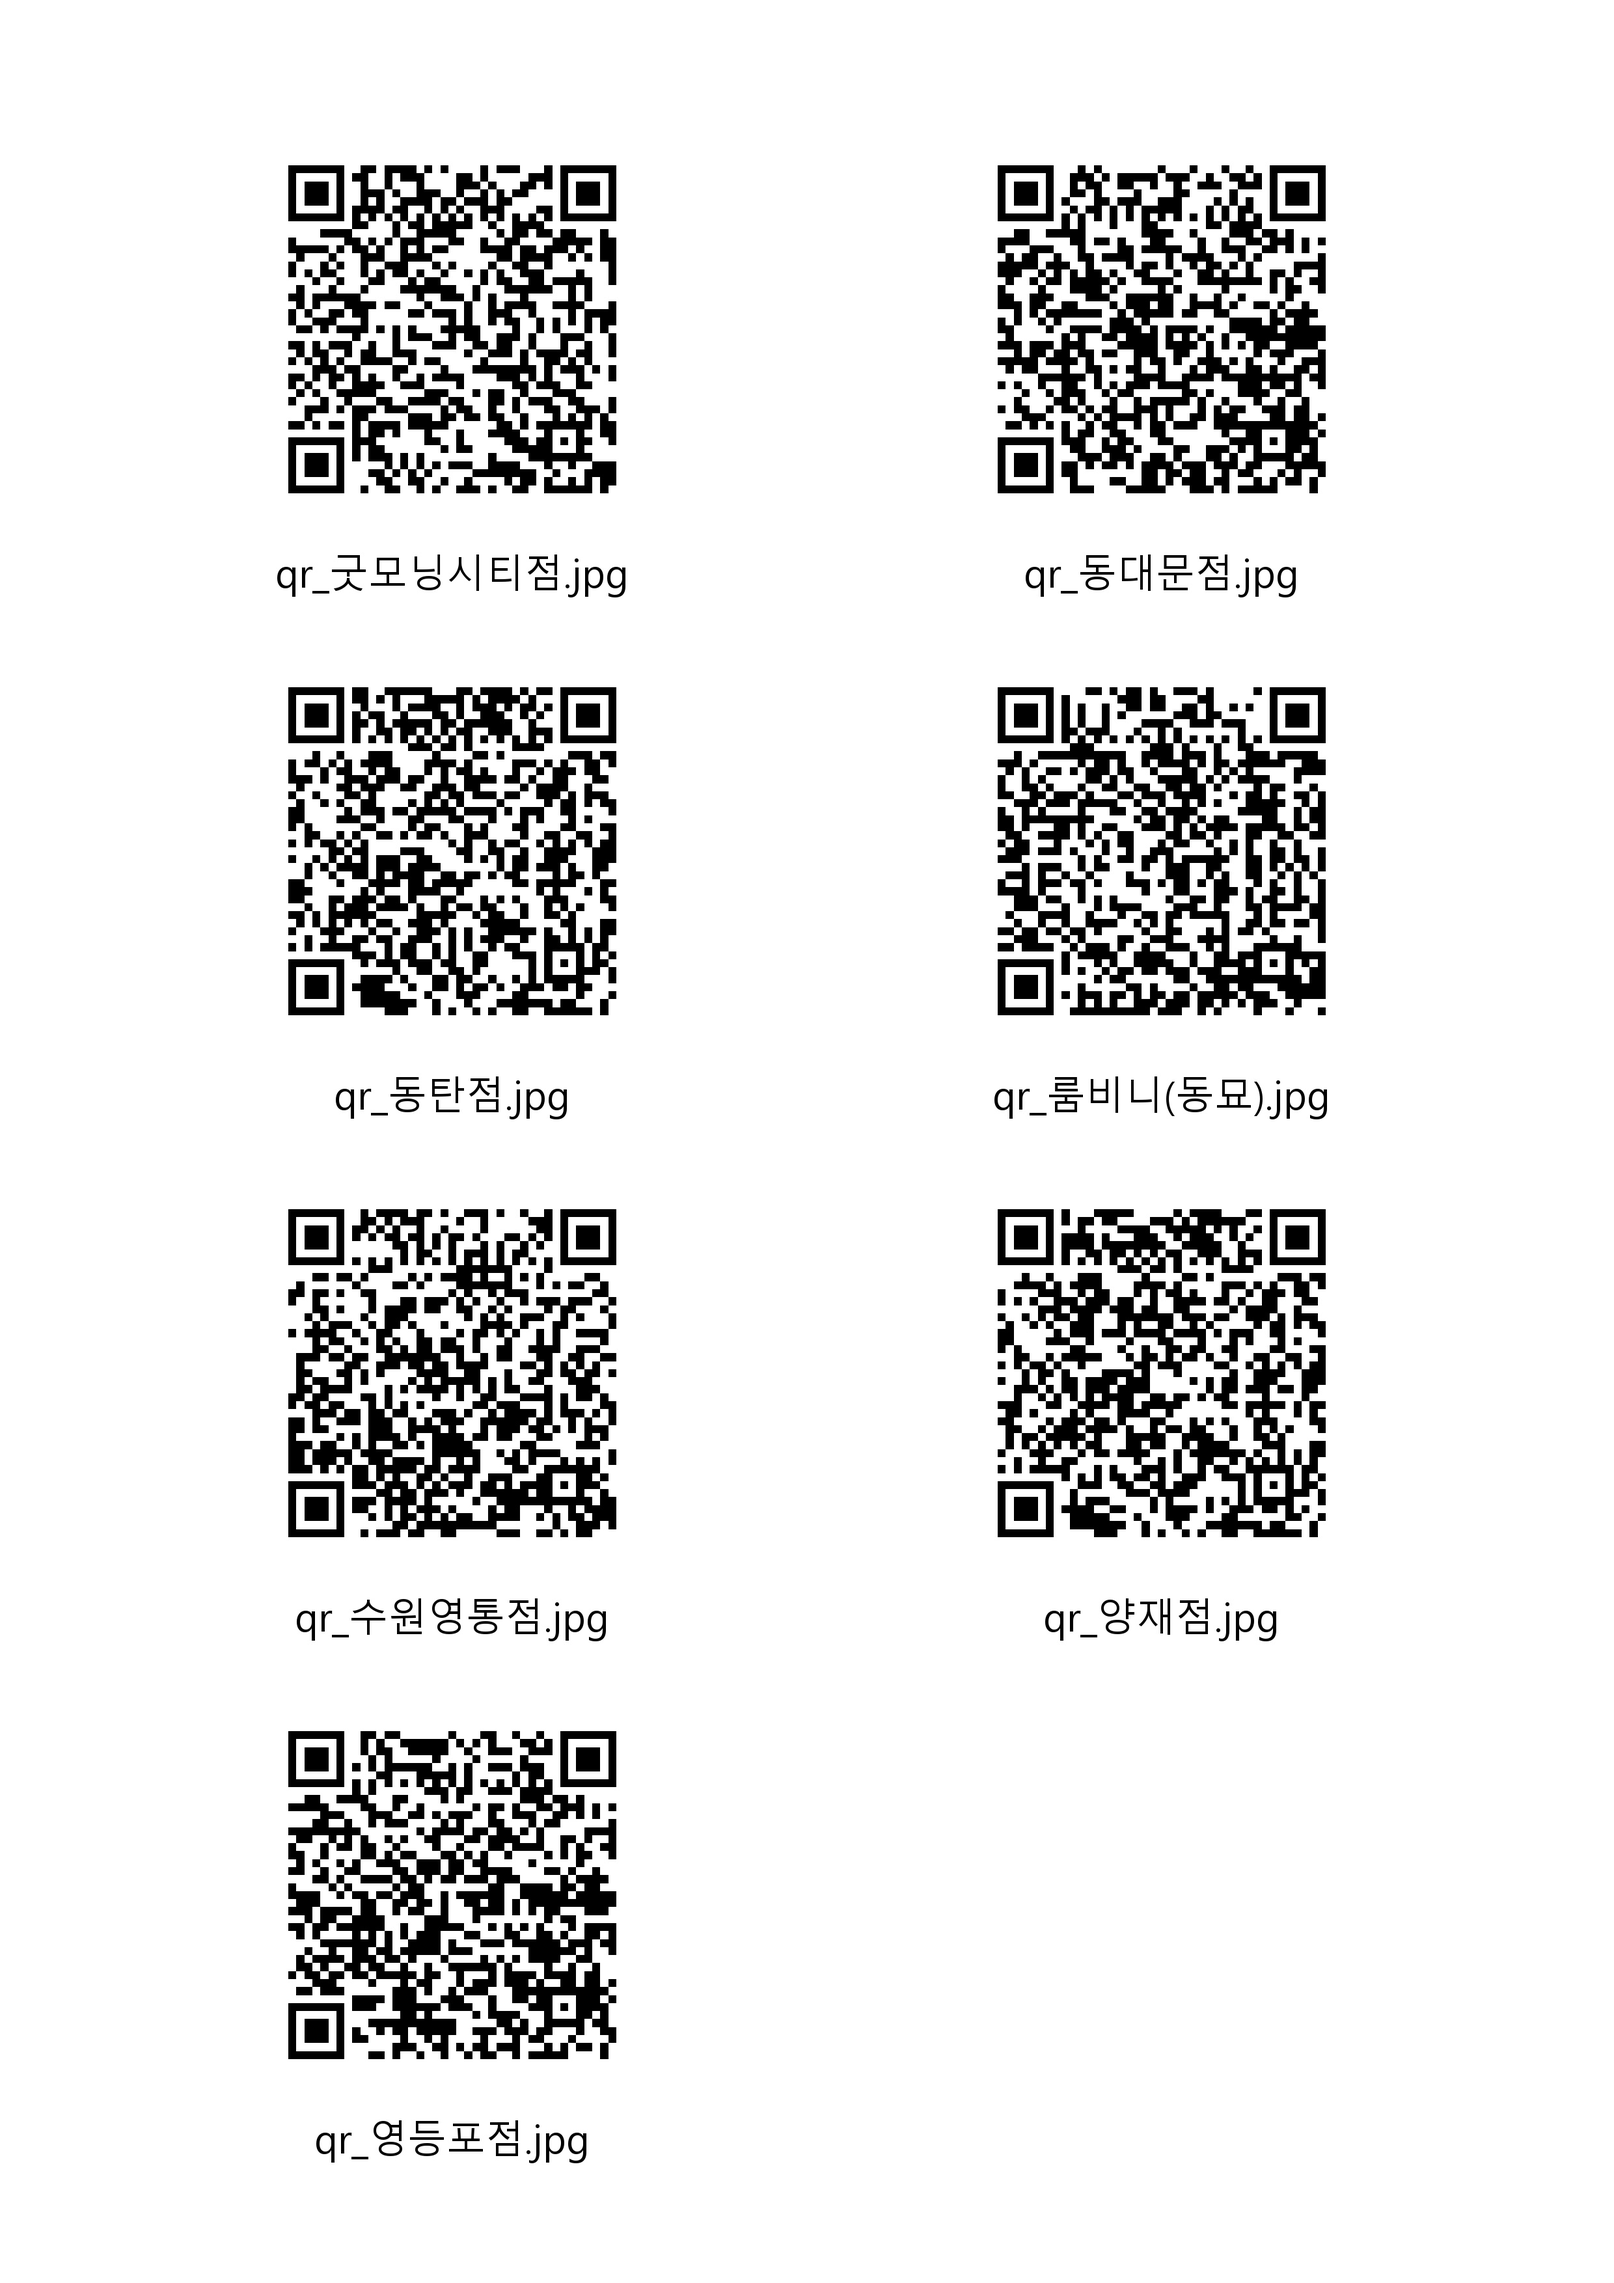
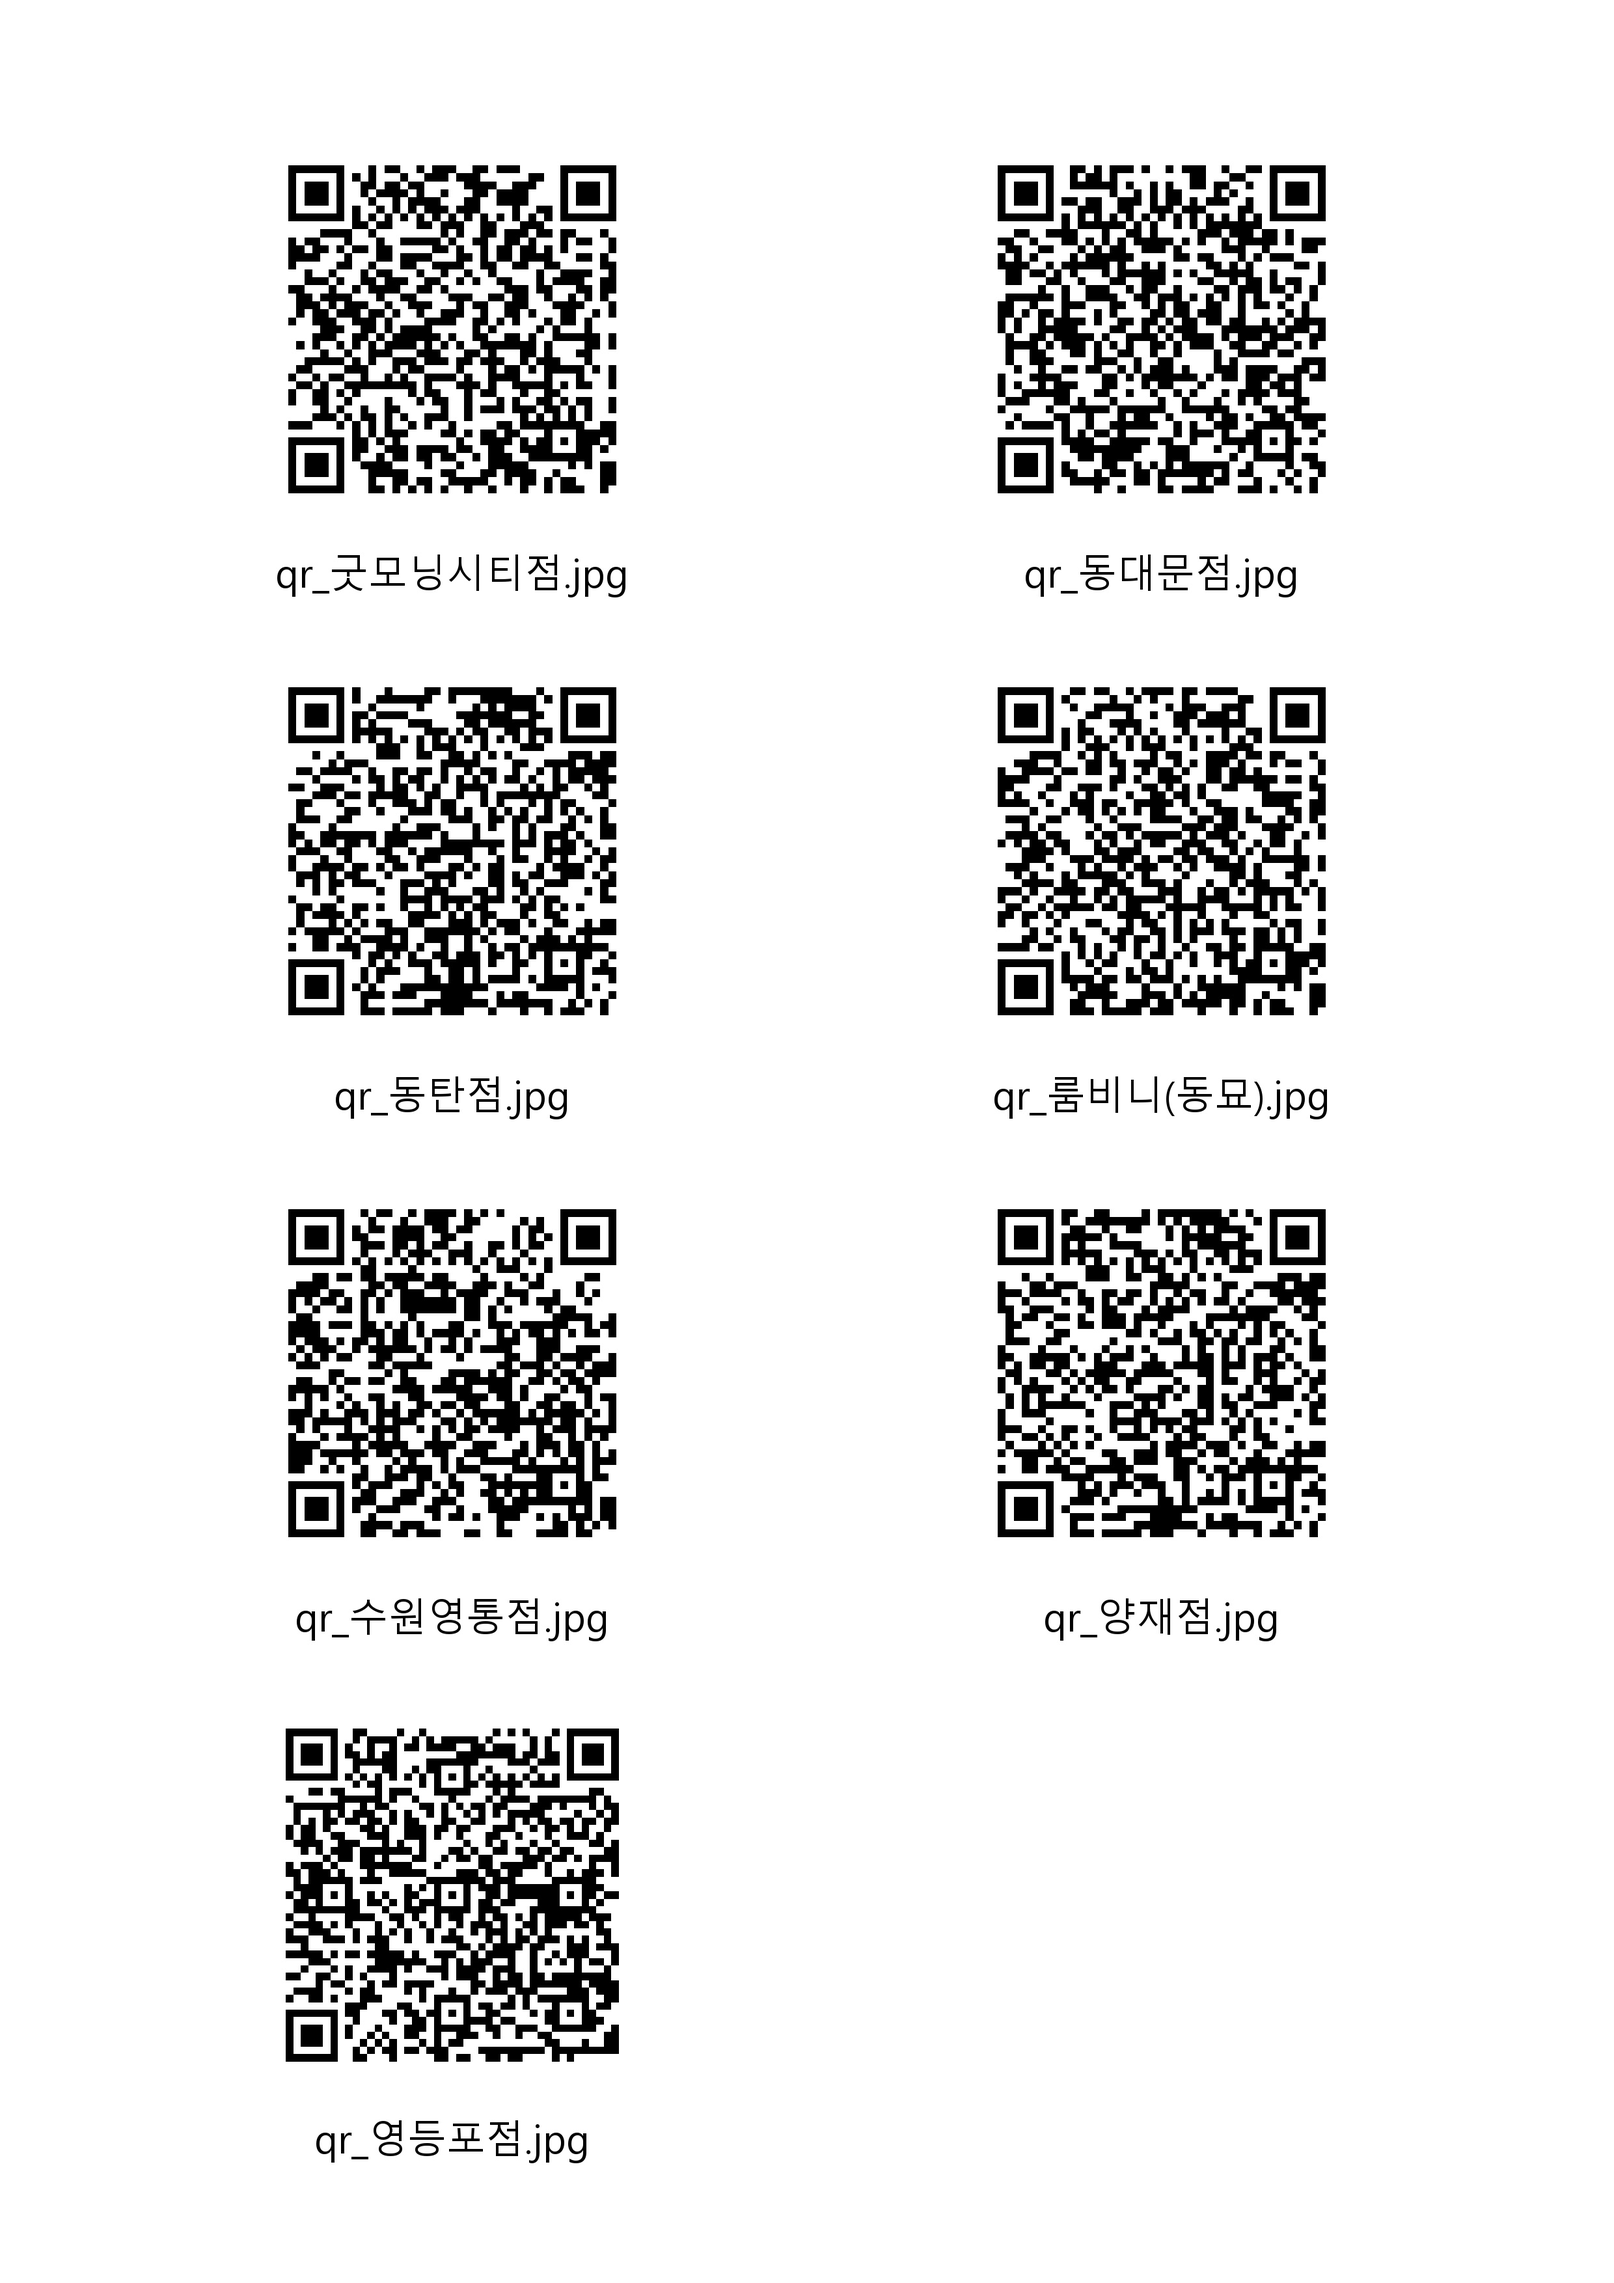
Fix: Update QR code URLs to membership.everestfood.com

diff --git a/make_qr.py b/make_qr.py
@@ -9,7 +9,7 @@ if not os.path.exists(save_folder):
 # ======================================================
 # ★★★ Render 배포 주소 적용 완료! ★★★
 # ======================================================
-base_url = "https://everest-ocr.onrender.com" 
+base_url = "https://membership.everestfood.com" 
 
 
 # 3. 지점 목록 (URL 파라미터용 코드 : 한글 지점명)

diff --git a/verify_password.py b/verify_password.py
@@ -1,0 +1,13 @@
+
+import bcrypt
+
+password = b"ev@7668850"
+hashed = b"$2b$12$Kj5KSvJ3W.o7s6mKEabht.PLRuWPoJllo9TiYN/17UwvoMA8RIhke"
+
+if bcrypt.checkpw(password, hashed):
+    print("MATCH")
+else:
+    print("NO MATCH")
+    # Generate new hash just in case
+    new_hash = bcrypt.hashpw(password, bcrypt.gensalt(rounds=12))
+    print(f"NEW HASH: {new_hash.decode()}")

diff --git a/debug_routes.py b/debug_routes.py
@@ -1,0 +1,14 @@
+
+import os
+os.environ['FERNET_KEY'] = 'bho7aodqh1g7xKCf2yLxmAOKLivmY7ZYXqSlZWyGdsE='
+os.environ['FLASK_SECRET_KEY'] = 'test_secret'
+os.environ['DATABASE_URL'] = 'sqlite:///:memory:'
+
+from app import create_app
+
+try:
+    app = create_app()
+    print("Map:")
+    print(app.url_map)
+except Exception as e:
+    print(e)
